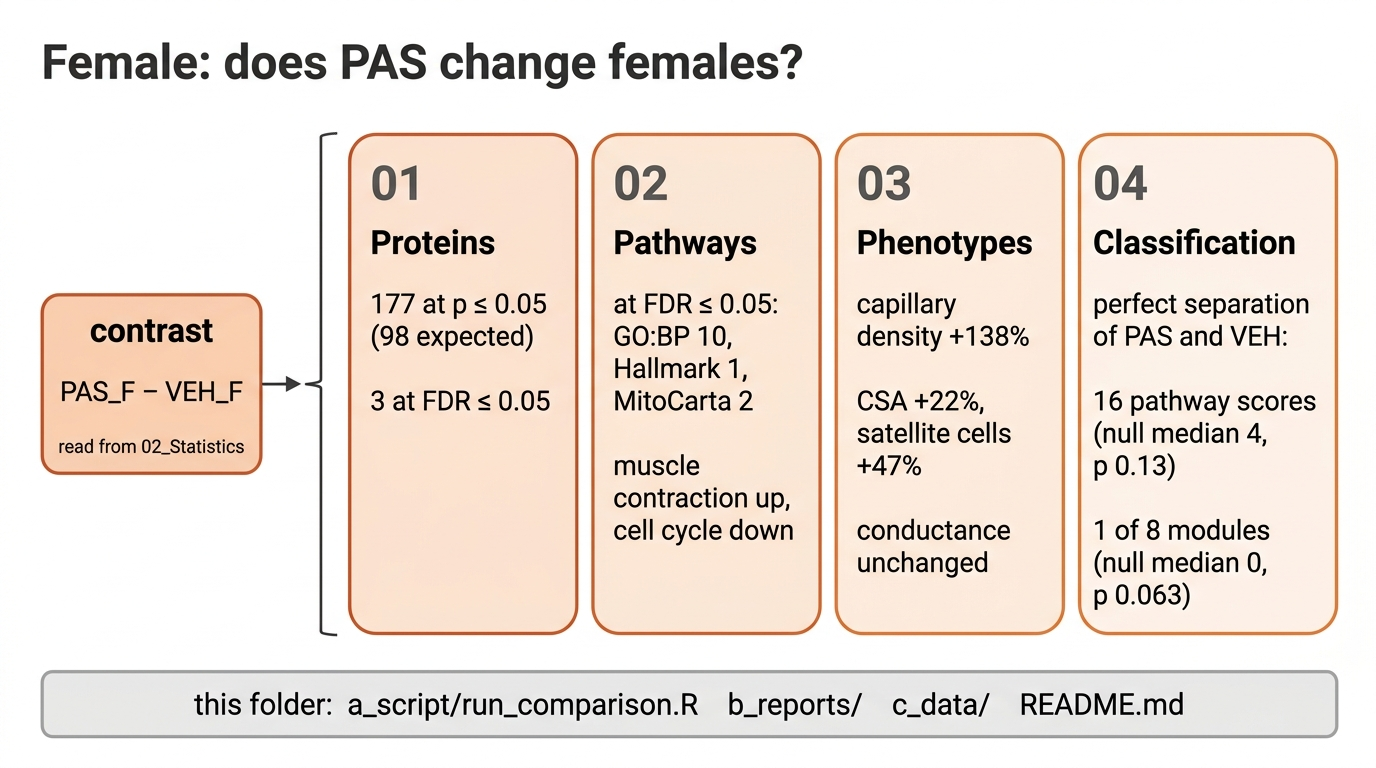
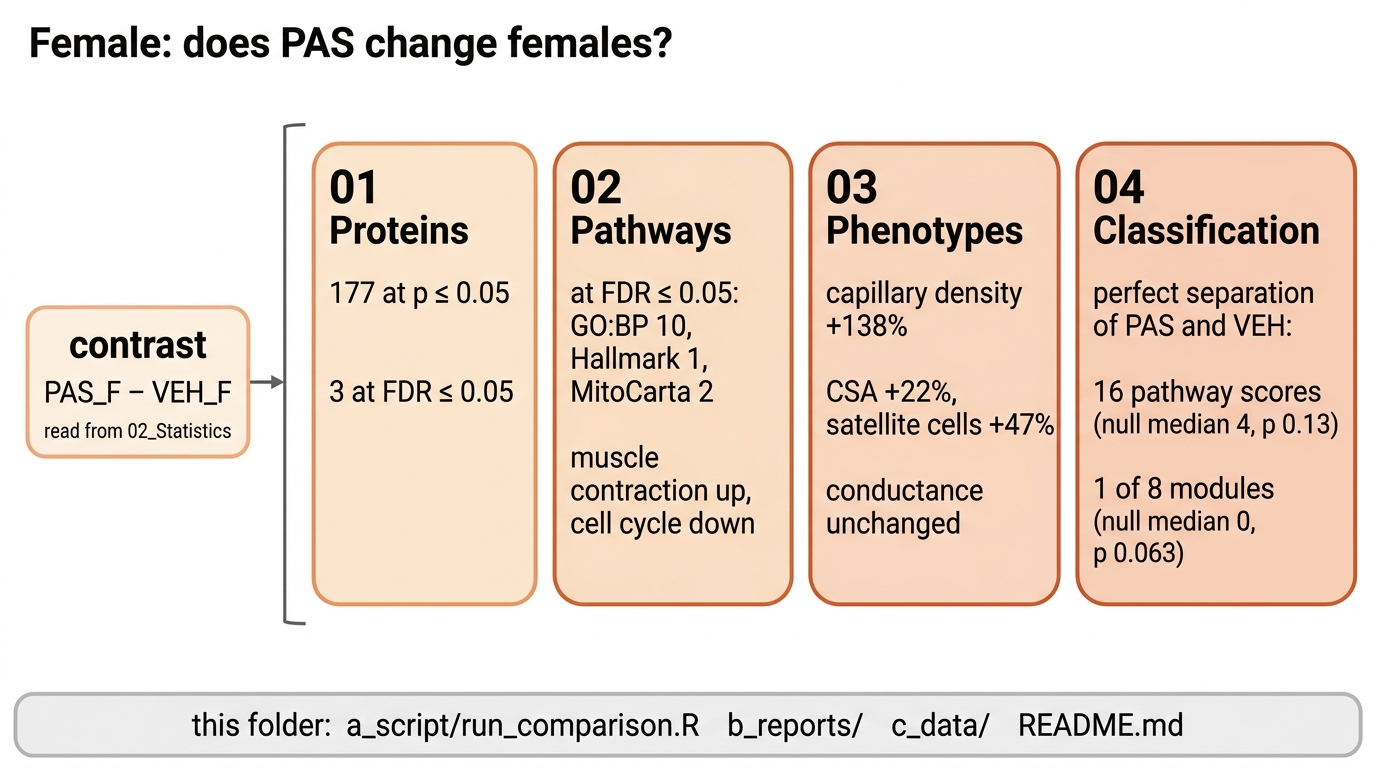
redraw the female and male schematics without the chance counts; sex difference waits for image credits

diff --git a/00_Setup/Schematics/sex_difference/SPEC.md b/00_Setup/Schematics/sex_difference/SPEC.md
@@ -2,12 +2,12 @@ STYLE (shared by all seven schematics): A flat, clean scientific schematic in th
 
 CONTENT: the Sex_Difference comparison and its two steps.
 
-Title at top left, bold: "Sex_Difference: does the PAS response differ by sex?".
+Title at top left, bold, on a single line: "Sex_Difference: does the PAS response differ by sex?" (each word once).
 
 Left: a purple card (lavender fill, plum outline; violet, not pink) titled in bold "contrast", with the line "(PAS_F − VEH_F) − (PAS_M − VEH_M)" on one line below the title, written with plain underscores and no subscripts, and under it the small line "read from 02_Statistics". One arrow runs right from this card to a thin vertical bracket that spans the left edges of the two step cards.
 
 Centre: two step cards side by side, the same size, with no arrow between them. Layout rules for the step cards: the contrast card is wide enough to hold "(PAS_F − VEH_F) − (PAS_M − VEH_M)" on one unbroken line; the step cards and the note card are tall, filling most of the height between the title and the bottom bar, and spread evenly across the width, with no large empty areas; each step card has its two-digit number on its own line and its bold title on the line below; text lines are left-aligned with even margins; a value is never split from its label across a line break (keep "(p 0.014)", "p ≤ 0.05" and "FDR ≤ 0.05" each on one line). Each card has a plum outline and a very pale lavender fill (a cool bluish lilac, the same hue as the contrast card, not pink or mauve), its two-digit number large at top left, the bold title under it, and short lines of text kept fully inside the card:
-- "01" "Proteins": "162 at p ≤ 0.05 (98 expected)" and "none at FDR ≤ 0.05".
+- "01" "Proteins": "162 at p ≤ 0.05" and "none at FDR ≤ 0.05".
 - "02" "Pathways": "at FDR ≤ 0.05: GO:BP 20, Reactome 6, Hallmark 3, KEGG 2, MitoCarta 11" and "muscle contraction and extracellular matrix higher in the female response".
 
 Right: one neutral light grey note card, not connected to anything, with two short lines: "phenotype interaction: capillary density only (p 0.014), in 02_Statistics/01_Fit" and "no classification step".

diff --git a/00_Setup/Schematics/female/SPEC.md b/00_Setup/Schematics/female/SPEC.md
@@ -7,7 +7,7 @@ Title at top left, bold: "Female: does PAS change females?".
 Left: an orange card titled in bold "contrast", with the line "PAS_F − VEH_F" below the title and, under it, the small line "read from 02_Statistics". One arrow runs right from this card to a thin vertical bracket that spans the left edges of all four step cards.
 
 Centre and right: four step cards side by side in a single horizontal row (one row of four, never a two-by-two grid), all the same size, with no arrows between them. Layout rules for the step cards: the contrast card is narrow (about one sixth of the image width) so the step cards are wide; each step card has its two-digit number and its bold title together on one top line; text lines are left-aligned with even margins; a value is never split from its label across a line break (keep "p 0.13", "p ≤ 0.05" and "FDR ≤ 0.05" each on one line). Each card has an orange outline and a very pale peach fill, its two-digit number large at top left, a bold title beside it, and short lines of text kept fully inside the card:
-- "01" "Proteins": "177 at p ≤ 0.05 (98 expected)" and "3 at FDR ≤ 0.05".
+- "01" "Proteins": "177 at p ≤ 0.05" and "3 at FDR ≤ 0.05".
 - "02" "Pathways": "at FDR ≤ 0.05: GO:BP 10, Hallmark 1, MitoCarta 2" and "muscle contraction up, cell cycle down".
 - "03" "Phenotypes": "capillary density +138%", "CSA +22%, satellite cells +47%" and "conductance unchanged".
 - "04" "Classification": "perfect separation of PAS and VEH:", "16 pathway scores (null median 4, p 0.13)" and "1 of 8 modules (null median 0, p 0.063)".

diff --git a/00_Setup/Schematics/female/EVIDENCE.md b/00_Setup/Schematics/female/EVIDENCE.md
@@ -1,12 +1,12 @@
 # Evidence: female
 
-Read 2026-10-16 after the coordinator's rerun of run_all.R. `F` = `03_Comparisons/Female/c_data/`.
+Read 2026-10-16 after the rerun of run_all.R; every number re-checked 2026-10-17 against the c_data workbooks at HEAD 4a15743 (unchanged). `F` = `03_Comparisons/Female/c_data/`.
 
 | Drawn element | Value in the output | Source |
 |---|---|---|
 | contrast PAS_F − VEH_F | PAS_vs_VEH_female: PAS_F 1, VEH_F −1 | `01_Processing/03_Design/c_data/03_design.xlsx`, sheet `contrasts` |
 | read from 02_Statistics | inputs fit.rds, enrichment.rds, classification.rds | `03_Comparisons/code/*.R` input blocks |
-| 177 at p ≤ 0.05 (98 expected) | full: down 95 + up 82 = 177; expected 49.90 + 48.20 = 98.1 | `F/01_proteins.xlsx`, sheet `summary`, universe full, `p_le_0.05`, `expected_by_chance`; also `02_Statistics/01_Fit/c_data/01_fit.xlsx` `contrast_summary` (177, 98.10) |
+| 177 at p ≤ 0.05 | full: down 95 + up 82 = 177 | `F/01_proteins.xlsx`, sheet `summary`, universe full, `p_le_0.05` (re-read 2026-10-17 at HEAD 4a15743) |
 | 3 at FDR ≤ 0.05 | full down 3 + up 0 | `F/01_proteins.xlsx`, `summary`, `fdr_le_0.05` |
 | GO:BP 10, Hallmark 1, MitoCarta 2 at FDR ≤ 0.05 | GO:BP 10, Hallmark 1, KEGG 0, Reactome 0, MitoCarta 2 | `F/02_pathways.xlsx`, sheet `summary`, `fdr_le_0.05` |
 | muscle contraction up, cell cycle down | FDR ≤ 0.05 GO:BP: muscle system process, (skeletal/striated) muscle contraction NES > 0; cell cycle (NES −1.89, padj 0.014), mitotic cell cycle NES < 0 | `F/02_pathways.xlsx`, sheet `fgsea`, `padj <= 0.05` |

diff --git a/00_Setup/Schematics/sex_difference/EVIDENCE.md b/00_Setup/Schematics/sex_difference/EVIDENCE.md
@@ -1,11 +1,11 @@
 # Evidence: sex_difference
 
-Read 2026-10-16 after the coordinator's rerun of run_all.R. `S` = `03_Comparisons/Sex_Difference/c_data/`.
+Read 2026-10-16 after the rerun of run_all.R; every number re-checked 2026-10-17 against the c_data workbooks at HEAD 4a15743 (unchanged). `S` = `03_Comparisons/Sex_Difference/c_data/`.
 
 | Drawn element | Value in the output | Source |
 |---|---|---|
 | contrast (PAS_F − VEH_F) − (PAS_M − VEH_M) | treatment_by_sex: PAS_F 1, PAS_M −1, VEH_F −1, VEH_M 1 | `01_Processing/03_Design/c_data/03_design.xlsx`, sheet `contrasts` |
-| 162 at p ≤ 0.05 (98 expected) | full: down 59 + up 103 = 162; expected 47.45 + 50.65 = 98.1 | `S/01_proteins.xlsx`, sheet `summary`; `01_fit.xlsx` `contrast_summary` (162, 98.10) |
+| 162 at p ≤ 0.05 | full: down 59 + up 103 = 162 | `S/01_proteins.xlsx`, sheet `summary`, universe full, `p_le_0.05` (re-read 2026-10-17 at HEAD 4a15743) |
 | none at FDR ≤ 0.05 | 0 | `S/01_proteins.xlsx`, `summary`, `fdr_le_0.05` |
 | GO:BP 20, Reactome 6, Hallmark 3, KEGG 2, MitoCarta 11 at FDR ≤ 0.05 | as drawn | `S/02_pathways.xlsx`, sheet `summary`, `fdr_le_0.05` |
 | muscle contraction and extracellular matrix higher in the female response | NES > 0 at padj ≤ 0.05: GOBP muscle contraction, REACTOME striated muscle contraction, muscle contraction, extracellular matrix organization, degradation of the extracellular matrix | `S/02_pathways.xlsx`, sheet `fgsea`; positive = PAS raised it more in females (`Sex_Difference/README.md` first paragraph, matching the contrast signs) |

diff --git a/00_Setup/Schematics/male/EVIDENCE.md b/00_Setup/Schematics/male/EVIDENCE.md
@@ -1,11 +1,11 @@
 # Evidence: male
 
-Read 2026-10-16 after the coordinator's rerun of run_all.R. `M` = `03_Comparisons/Male/c_data/`.
+Read 2026-10-16 after the rerun of run_all.R; every number re-checked 2026-10-17 against the c_data workbooks at HEAD 4a15743 (unchanged). `M` = `03_Comparisons/Male/c_data/`.
 
 | Drawn element | Value in the output | Source |
 |---|---|---|
 | contrast PAS_M − VEH_M | PAS_vs_VEH_male: PAS_M 1, VEH_M −1 | `01_Processing/03_Design/c_data/03_design.xlsx`, sheet `contrasts` |
-| 193 at p ≤ 0.05 (98 expected) | full: down 119 + up 74 = 193; expected 54.75 + 43.35 = 98.1 | `M/01_proteins.xlsx`, sheet `summary`; `01_fit.xlsx` `contrast_summary` (193, 98.10) |
+| 193 at p ≤ 0.05 | full: down 119 + up 74 = 193 | `M/01_proteins.xlsx`, sheet `summary`, universe full, `p_le_0.05` (re-read 2026-10-17 at HEAD 4a15743) |
 | none at FDR ≤ 0.05 | full 0 + 0 | `M/01_proteins.xlsx`, `summary`, `fdr_le_0.05` |
 | GO:BP 35, Hallmark 1, KEGG 5 at FDR ≤ 0.05 | GO:BP 35, Hallmark 1, KEGG 5, Reactome 0, MitoCarta 0 | `M/02_pathways.xlsx`, sheet `summary`, `fdr_le_0.05` |
 | actin and cytoskeleton organisation down | 34 of 35 GO:BP at FDR ≤ 0.05 have NES < 0, led by supramolecular fiber organization, cytoskeleton organization, actin filament organization | `M/02_pathways.xlsx`, sheet `fgsea`, `padj <= 0.05` |

diff --git a/00_Setup/Schematics/male/SPEC.md b/00_Setup/Schematics/male/SPEC.md
@@ -7,7 +7,7 @@ Title at top left, bold: "Male: does PAS change males?".
 Left: a blue card titled in bold "contrast", with the line "PAS_M − VEH_M" below the title and, under it, the small line "read from 02_Statistics". One arrow runs right from this card to a thin vertical bracket that spans the left edges of all four step cards.
 
 Centre and right: four step cards side by side in one row, all the same size, with no arrows between them. Each card has a steel blue outline and a very pale sky-blue fill, its two-digit number large at top left, a bold title beside it, and short lines of text kept fully inside the card:
-- "01" "Proteins": "193 at p ≤ 0.05 (98 expected)" and "none at FDR ≤ 0.05".
+- "01" "Proteins": "193 at p ≤ 0.05" and "none at FDR ≤ 0.05".
 - "02" "Pathways": "at FDR ≤ 0.05: GO:BP 35, Hallmark 1, KEGG 5" and "actin and cytoskeleton organisation down".
 - "03" "Phenotypes": "no phenotype effect at p ≤ 0.05".
 - "04" "Classification": "perfect separation of PAS and VEH:", "5 pathway scores (null median 2, p 0.33)" and "0 of 8 modules".

diff --git a/00_Setup/Schematics/sex_difference/DONOTDRAW.md b/00_Setup/Schematics/sex_difference/DONOTDRAW.md
@@ -11,3 +11,5 @@
 - subscript text
 - colour names or colour codes written as text
 - an arrow or line to or from the note card
+- subscript or lowered letters in PAS_F, VEH_F, PAS_M or VEH_M (the F and M are full-size capitals after a visible underscore)
+- any word of the title repeated
